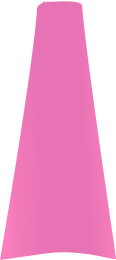
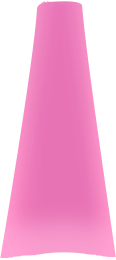
added purple lava

diff --git a/src/components/Lavalamp/index.js b/src/components/Lavalamp/index.js
@@ -2,6 +2,8 @@ import React, { useEffect, useState } from "react";
 import styled, { css } from "styled-components";
 import lavaLamp from "../../images/lavalamp.png";
 import lavaLamp2 from "../../images/lavalamp2.png";
+import lavaLampPurple from "../../images/lavalamp-purple.png";
+import lavaLamp2Purple from "../../images/lavalamp2-purple.png";
 
 const StyledWrapper = styled.div`
   position: absolute;
@@ -35,7 +37,6 @@ const StyledLava = styled.div`
 
 const blobStyles = css`
   border-radius: 50%;
-  background: linear-gradient(-45deg, #fc69c1, #c9408a);
   position: absolute;
 `;
 
@@ -45,16 +46,19 @@ const StyledBlob1 = styled.div`
   height: 15%;
   left: 45%;
   bottom: -15%;
-
+  background: ${(props) =>
+    props.changeColor
+      ? `linear-gradient(-45deg,#c34bf0, #7106d3)`
+      : `linear-gradient(-45deg, #fc69c1, #c9408a)`};
   animation: blob-one ease-in-out 14s infinite;
 
   @keyframes blob-one {
     0%,
     100% {
-      transform: translatey(0);
+      transform: translateY(0);
     }
     50% {
-      transform: translatey(-700%);
+      transform: translateY(-700%);
     }
   }
 `;
@@ -65,15 +69,19 @@ const StyledBlob2 = styled.div`
   height: 22%;
   right: 14%;
   bottom: -15%;
+  background: ${(props) =>
+    props.changeColor
+      ? `linear-gradient(-45deg, #c34bf0, #7106d3)`
+      : `linear-gradient(-45deg, #fc69c1, #c9408a)`};
 
   animation: blob-two ease-in-out 16s infinite;
   @keyframes blob-two {
     0%,
     100% {
-      transform: translatey(0);
+      transform: translateY(0);
     }
     50% {
-      transform: translatey(-420%);
+      transform: translateY(-420%);
     }
   }
 `;
@@ -84,37 +92,65 @@ const StyledBlob3 = styled.div`
   height: 32%;
   bottom: -15%;
   left: 14%;
+  background: ${(props) =>
+    props.changeColor
+      ? `linear-gradient(-45deg, #c34bf0, #7106d3)`
+      : `linear-gradient(-45deg, #fc69c1, #c9408a)`};
 
   animation: blob-three ease-in-out 20s infinite;
   @keyframes blob-three {
     0%,
     100% {
-      transform: translatey(0);
+      transform: translateY(0);
     }
     50% {
-      transform: translatey(-305%);
+      transform: translateY(-305%);
     }
   }
 `;
 
 export const LavaLamp = ({ width, areaName }) => {
-  const [show, setShow] = useState(false);
+  const [clickCount, setClickCount] = useState(0);
+  // const [show, setShow] = useState(false);
   const [image, setImage] = useState(lavaLamp);
+  // const [changeColor, setChangeColor] = useState(false);
   const [clip, setClip] = useState("polygon(34% 0, 66% 0, 99% 97%, 1% 97%)");
 
   useEffect(() => {
     if (areaName === "area2") {
       setImage(lavaLamp2);
-      setClip("polygon(34% 0, 60% 0, 99% 97%, 1% 97%);");
+      setClip("polygon(34% 0, 65% 0, 99% 97%, 1% 97%);");
     }
   }, []);
-  console.log(areaName);
+
+  useEffect(() => {
+    console.log("click", clickCount);
+    if (clickCount === 1) {
+      if (areaName === "area2") {
+        setImage(lavaLamp2);
+      } else {
+        setImage(lavaLamp);
+      }
+    }
+    if (clickCount === 2) {
+      // setChangeColor(true);
+      if (areaName === "area2") {
+        setImage(lavaLamp2Purple);
+      } else {
+        setImage(lavaLampPurple);
+      }
+    }
+    if (clickCount === 3) {
+      setClickCount(0);
+    }
+  }, [clickCount]);
+
   const positions = {
     area2: {
-      x: width * 0.279,
-      y: width * 0.141 * 0.5625,
+      x: width * 0.2785,
+      y: width * 0.14 * 0.5625,
       width: width * 0.029,
-      height: width * 0.112 * 0.5625,
+      height: width * 0.114 * 0.5625,
     },
     area3: {
       x: width * 0.064,
@@ -125,7 +161,14 @@ export const LavaLamp = ({ width, areaName }) => {
   };
 
   const handleClick = () => {
-    setShow(!show);
+    setClickCount(clickCount + 1);
+    // console.log({ changeColor });
+    // if (click) {
+    //   setShow(false);
+    //   setChangeColor(false);
+    // } else {
+    //   setShow(true);
+    // }
   };
   return (
     <StyledWrapper
@@ -135,16 +178,16 @@ export const LavaLamp = ({ width, areaName }) => {
       cssWidth={positions[areaName].width}
       cssHeight={positions[areaName].height}
     >
-      {show && (
+      {clickCount > 0 && (
         <StyledLamp
           lampImage={image}
           cssWidth={positions[areaName].width}
           cssHeight={positions[areaName].height}
         >
           <StyledLava clip={clip}>
-            <StyledBlob1 />
-            <StyledBlob2 />
-            <StyledBlob3 />
+            <StyledBlob1 changeColor={clickCount === 2} />
+            <StyledBlob2 changeColor={clickCount === 2} />
+            <StyledBlob3 changeColor={clickCount === 2} />
           </StyledLava>
         </StyledLamp>
       )}
